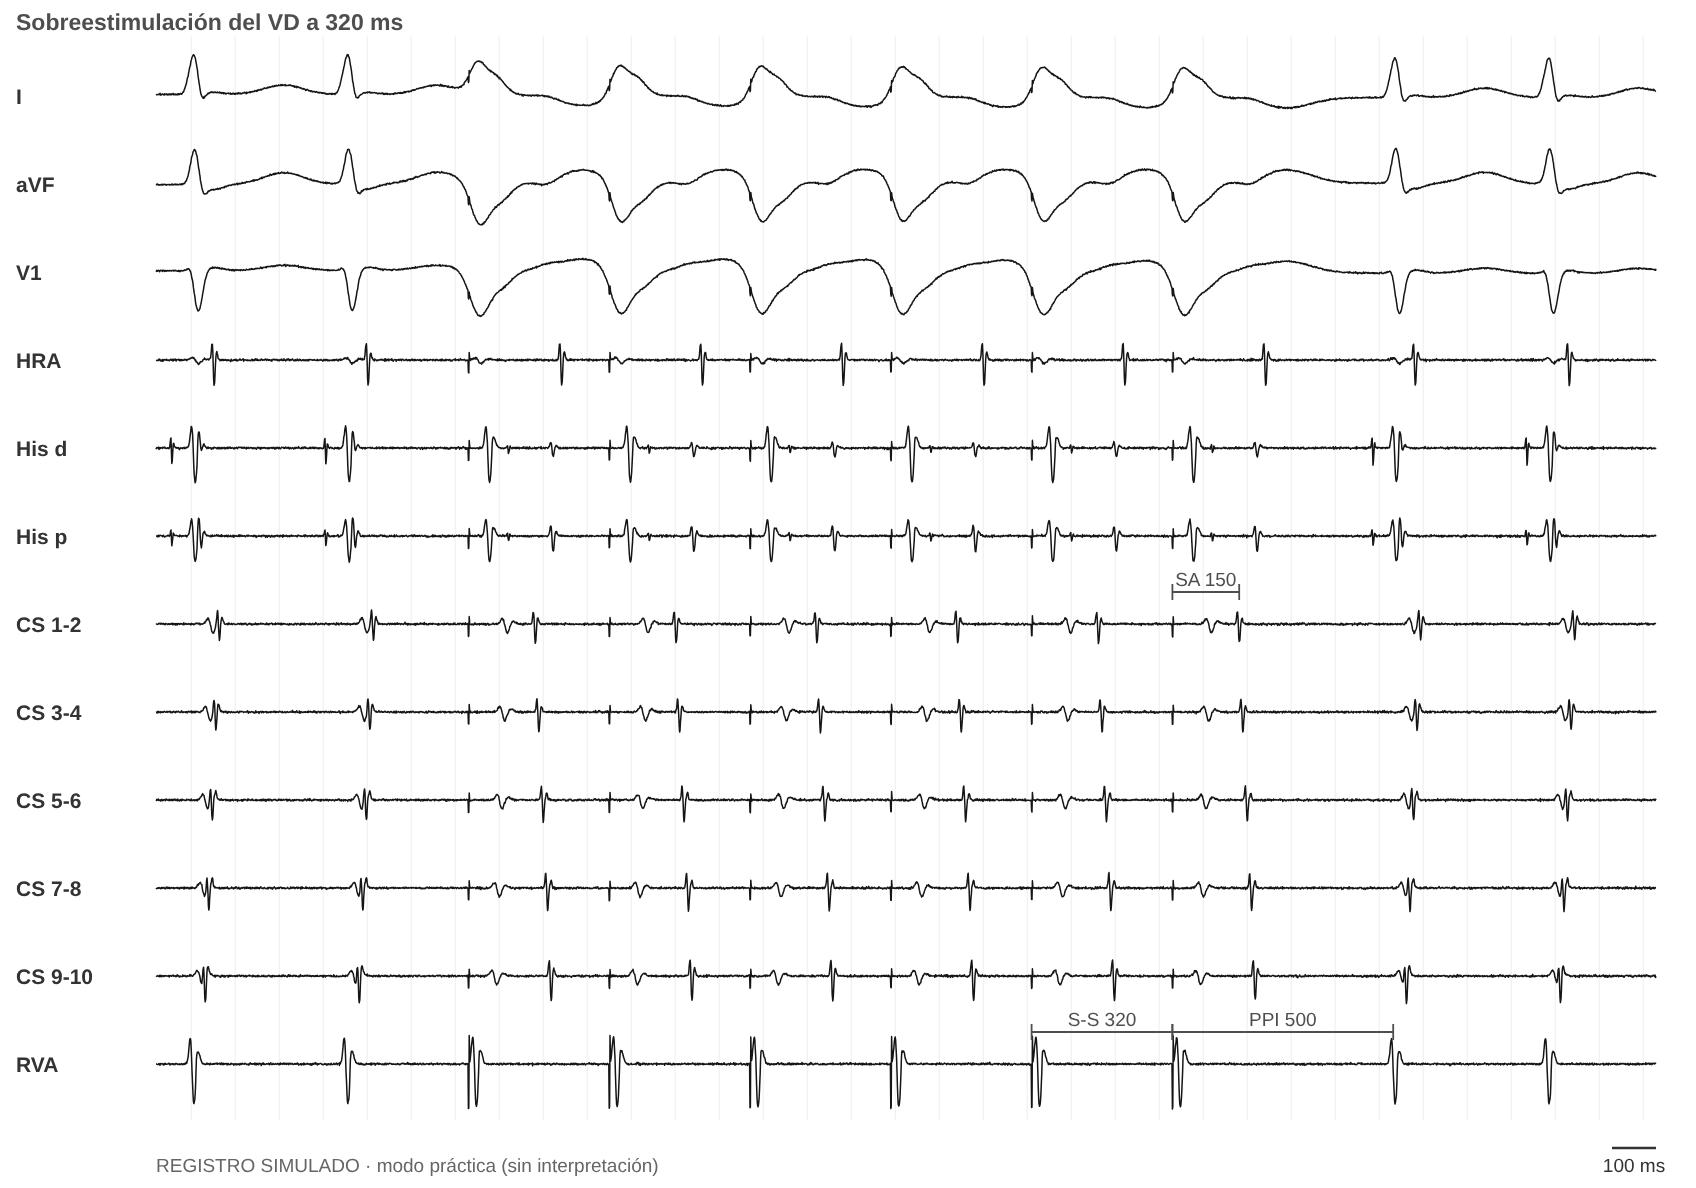
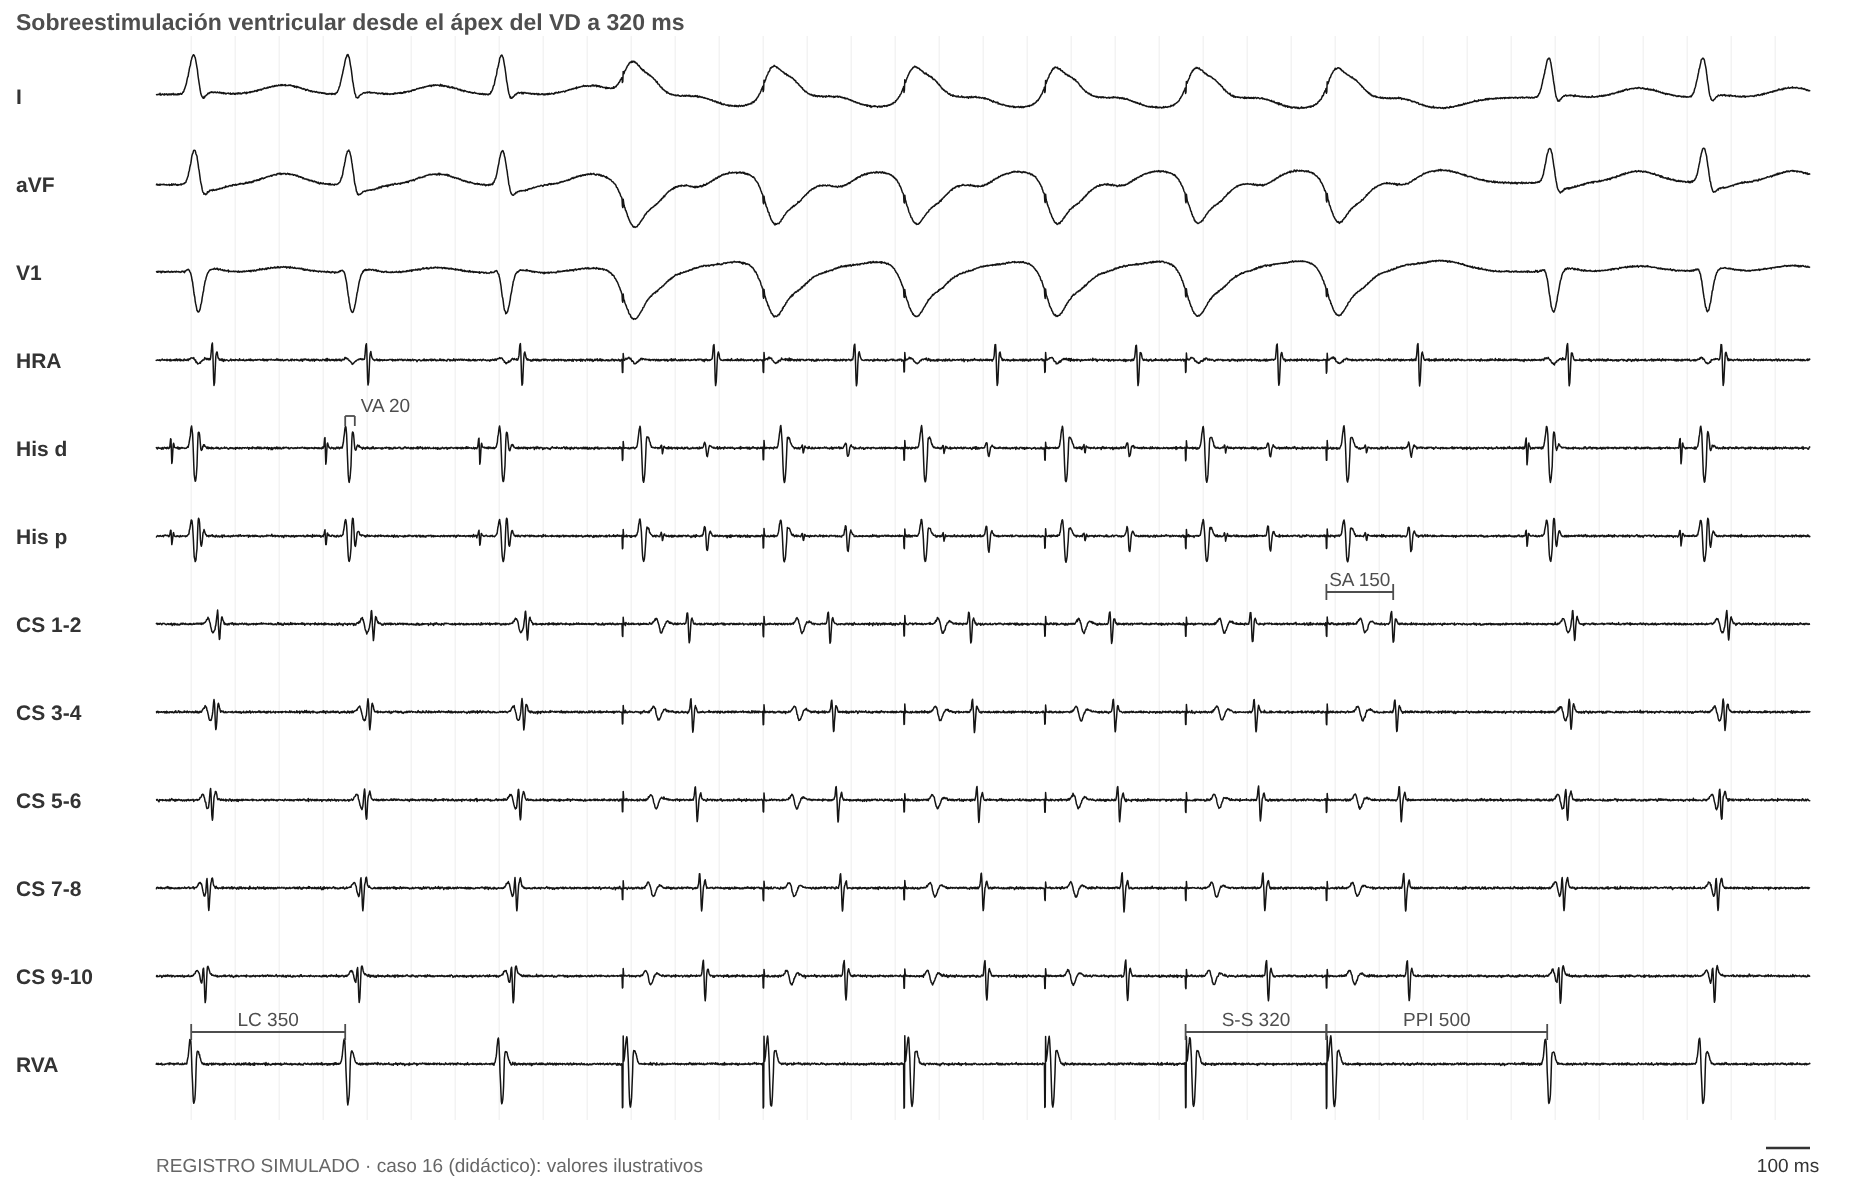
Caso 16 en el formato nuevo: todas las maniobras simuladas, valores durante el análisis y devolución paso a paso
Claude-Session: https://claude.ai/code/session_01Pw5rjt62KK5LeJZoEyFiaM

diff --git a/index.html b/index.html
@@ -313,7 +313,7 @@ dialog::backdrop{background:rgba(0,0,0,.45)}
 
 <div id="visor" hidden role="dialog" aria-label="Imagen ampliada"><div class="vbar"><button type="button" class="vm" aria-label="Achicar">−</button><button type="button" class="vp" aria-label="Agrandar">+</button><button type="button" class="vf">Ajustar</button><button type="button" class="vx">✕ Cerrar</button></div><div class="vbox"><img alt=""></div></div>
 <script>
-const APPV = 177;   // igual al número de CACHE_VERSION de sw.js
+const APPV = 178;   // igual al número de CACHE_VERSION de sw.js
 // ===============================================================================================================
 // Referencias. "propia" = artículo del material base; las demás se citan a través de esas revisiones.
 // ===============================================================================================================
@@ -1486,17 +1486,19 @@ const PCASOS = [
       eha: { v: 'EA desde el ostium del SC con el His refractario: el His siguiente sale a su tiempo (H-H 311).', r: 'No modifica el His: esperable en la TRAV.', u: 'util', img: 'figs/sim/prac/p15_eha.png' } },
     dx: ['trav_l'], ex: 'La activación auricular excéntrica (SC distal) plantea una vía izquierda o una TA izquierda; la respuesta A-V y el VA linking excluyen la TA, y el PPI−LC de 60 ms pone al ventrículo dentro del circuito: TRAV. La conducción VA es excéntrica y decremental: una vía lateral izquierda decremental, poco frecuente. Desde el ápex, la EV con His refractario y la para-Hisiana no la detectan porque la vía está lejos. El mapa de activación durante la taquicardia la ubicó en el anillo mitral lateral (hora 4), donde se ablacionó.', refs: ['michaud01', 'veen11'] },
   { id: 'c16', t: 'TSV concéntrica en un paciente con conducción VA excéntrica', p: 'Varón de 12 años con TSV recurrentes. ECG basal sin preexcitación.',
-    ecg: 'figs/sim/casos/c16_ecg.png', ind: 'figs/sim/casos/c16_ind.png',
-    h: ['TSV de QRS angosto, LC 350 ms, relación 1:1', 'VA septal 20 ms', 'Activación auricular concéntrica (SC 9-10 primero, SC 1-2 último)'],
-    m: { vop: { r: 'Durante el tren la A más precoz pasa al SC distal (SA 150 ms en el SC 1-2). Al cortar, respuesta A-V, y la TSV vuelve con su secuencia concéntrica.', u: 'clave', img: 'figs/sim/prac/p16_vop.png' },
-      ehr: { r: 'Una EV con His refractario adelanta 57 ms la A del SC distal, con una secuencia distinta de la de la TSV; el His siguiente y la LC no cambian.', u: 'clave', img: 'figs/sim/prac/p16_ehr.png' },
-      pre: { r: 'Salto AH de 60 ms con eco nodal. Estimulando el VD en sinusal, conducción VA excéntrica (SC distal primero) y no decremental.', u: 'clave' },
-      medidas: { r: 'PPI−LC 150 ms; SA−VA 130 ms (el SA se midió sobre una A que llegó por otra vía).', u: 'trampa' },
-      eha: { r: 'Un EA con His refractario desde el ostium del SC retrasa el His siguiente 15 ms.', u: 'util' },
-      aop: { r: 'VA linking: el VA del primer latido de retorno es igual al de la TSV.', u: 'util' },
-      parahis: { r: 'En sinusal, respuesta extranodal: al perder la captura del His el SA no cambia.', u: 'trampa' },
-      ado: { r: 'La TSV termina con una A (bloqueo AV).' } },
-    dx: ['trnav_t', 'bys'], ex: 'Durante la TSV el VA septal es de 20 ms y la activación es concéntrica: una TSV así no puede usar una vía lateral izquierda (el impulso tardaría unos 100–130 ms en pasar por el ventrículo y la vía), y el VA ≤ 70 ms excluye la TRAV. La vía existe (conducción VA excéntrica al estimular el ventrículo), pero no participa: la EV con His refractario adelanta una A con otra secuencia sin resetear la taquicardia, y al cortar la sobreestimulación la respuesta es A-V con vuelta a la secuencia concéntrica. TRNAV típica con una vía izquierda espectadora: se ablaciona la vía lenta y también la vía.', refs: ['knight00', 'veen12'] },
+    ecg: 'figs/sim/casos/c16_ecg.png', ind: 'figs/sim/casos/c16_ind.png', indt: 'Registro de la taquicardia',
+    h: ['TSV de QRS angosto, LC 350 ms, relación AV 1:1'],
+    hk: ['VA septal 20 ms con activación auricular concéntrica (SC 9-10 primero, SC 1-2 último): VA ≤ 70 excluye la TRAV, y en particular una TRAV por una vía izquierda (el impulso tardaría 100–130 ms en pasar por el ventrículo y la vía).'],
+    m: { pre: { v: 'A: extraestímulo auricular S1-S2 600-300: AH 90 → 280 con un eco. B: estimulación del VD en sinusal a 500 y 400 ms.', r: 'Salto del AH con eco: doble fisiología nodal. Estimulando el ventrículo, la conducción VA es excéntrica (SC 1-2 primero) y no decremental (SA 150 en los dos): hay una vía lateral izquierda, pero en la TSV la activación es concéntrica.', u: 'clave', img: 'figs/sim/prac/p16_pre.png' },
+      vop: { v: 'Estimulando el ápex del VD a 320 ms, durante el tren la A más precoz pasa al SC distal (SA 150 en el SC 1-2). Al cortar, el primer electrograma que sigue a la última A es un V (secuencia A-V) y la taquicardia vuelve con su secuencia concéntrica.', r: 'Respuesta A-V: excluye la TA. Durante la estimulación la A sube por la vía izquierda, pero en la taquicardia no: la vía no participa.', u: 'clave', img: 'figs/sim/prac/p16_vop.png' },
+      ehr: { v: 'EV con el His refractario: la A del SC distal se adelanta (A-A 293), con una secuencia distinta de la de la TSV; el His siguiente y la LC no cambian (H-H 350).', r: 'La EV llega a la aurícula por la vía (demuestra la vía), pero no resetea la taquicardia: la vía es espectadora. TRNAV con una vía izquierda espectadora.', u: 'clave', img: 'figs/sim/prac/p16_ehr.png' },
+      medidas: { v: 'PPI 500 ms con LC 350 (PPI−LC 150). SA 150 ms (en el SC 1-2) con VA 20 (SA−VA 130).', r: 'PPI−LC > 115: el ventrículo no está en el circuito (TRNAV). El SA se midió sobre una A que subió por la vía, no por el circuito: el SA−VA no se interpreta.', u: 'util', img: 'figs/sim/prac/p16_medidas.png' },
+      diff: { v: 'Encarrilando a 320 ms: SA 150 desde el ápex y SA 140 desde la base del VD (A más precoz en el SC 1-2). ΔVA (base − ápex) −10 ms.', r: 'Engañosa: el ΔVA ≤ 20 sugiere TRAV, pero durante la estimulación la A sube por la vía espectadora, no por el circuito; no sirve para el diagnóstico de la taquicardia.', u: 'trampa', img: 'figs/sim/prac/p16_diff.png' },
+      parahis: { v: 'En sinusal, con captura del His: SA 85, activación concéntrica. Solo V: SA 150 con la A más precoz en el SC 1-2 (excéntrica).', r: 'Cambio de secuencia al perder el His: la A llega por una vía izquierda. Demuestra la vía, pero no que participe en la taquicardia.', u: 'util', img: 'figs/sim/prac/p16_parahis.png' },
+      aop: { v: 'Estimulando la AD alta a 320 ms los V se aceleran a 320 (V-V 320; en la TSV, 350). Al cortar, el VA del primer latido es 20 ms, igual al de la TSV.', r: 'VA linking: excluye la TA.', u: 'util', img: 'figs/sim/prac/p16_aop.png' },
+      eha: { v: 'EA desde el ostium del SC con el His refractario: el His siguiente se retrasa 15 ms (H-H 365).', r: 'El EA entra en el circuito por la vía lenta aunque el His esté refractario: TRNAV.', u: 'util', img: 'figs/sim/prac/p16_eha.png' },
+      ado: { v: 'La taquicardia termina: el último latido es una A que no conduce al V.', r: 'Termina con bloqueo anterógrado en el nodo (vía lenta): excluye la TA.', u: 'util', img: 'figs/sim/prac/p16_ado.png' } },
+    dx: ['trnav_t', 'bys'], ex: 'Durante la TSV el VA septal es de 20 ms y la activación es concéntrica: una TSV así no puede usar una vía lateral izquierda, y el VA ≤ 70 ms excluye la TRAV. La vía existe (conducción VA excéntrica al estimular el ventrículo y en la para-Hisiana sin His), pero no participa: la EV con His refractario adelanta una A con otra secuencia sin resetear la taquicardia, y al cortar la sobreestimulación la respuesta es A-V con vuelta a la secuencia concéntrica. El encarrilamiento diferencial engaña porque la A sube por la vía durante la estimulación. TRNAV típica con una vía izquierda espectadora: se ablaciona la vía lenta y también la vía.', refs: ['knight00', 'veen12'] },
   { id: 'c17', t: 'Dos taquicardias en una niña de 9 años', p: 'Niña de 9 años con TSV recurrentes. Registros reales del polígrafo.',
     basal: 'figs/sim/casos/c17_vbasal.jpg', basalReal: true, ind: 'figs/sim/casos/c17_ind.jpg', indReal: true, indt: 'Inducción de la TSV 2 con estimulación desde el SC', extra: [['figs/sim/casos/c17_trav.jpg', 'TSV 1 (LC 390)', true]],
     h: ['Se inducen dos TSV de QRS angosto distintas', 'TSV 1: LC 390 ms, activación auricular excéntrica, más precoz en el SC 3-4 (pared posterolateral izquierda)', 'TSV 2: LC ~230 ms, inducida con estimulación desde el SC; conduce con aberrancia en algunos tramos'],

diff --git a/sw.js b/sw.js
@@ -1,6 +1,6 @@
 // Permite instalar la app y abrirla sin conexión. Primero la red (siempre lo último publicado); si no hay, la copia.
 // Si cambiás un archivo, subí CACHE_VERSION.
-const CACHE_VERSION = 'mef-v177';
+const CACHE_VERSION = 'mef-v178';
 const ARCHIVOS = ['./', './index.html', './manifest.json', './iconos/icon-192.png', './iconos/icon-512.png'];
 self.addEventListener('install', e => e.waitUntil(caches.open(CACHE_VERSION).then(c => c.addAll(ARCHIVOS)).then(() => self.skipWaiting())));
 self.addEventListener('activate', e => e.waitUntil(caches.keys().then(ks => Promise.all(ks.filter(k => k !== CACHE_VERSION).map(k => caches.delete(k)))).then(() => self.clients.claim())));

diff --git a/herramientas/simulador/cases6.py b/herramientas/simulador/cases6.py
@@ -1505,6 +1505,102 @@ S['p15_eha'] = dict(win=(-100, vs[-1] + 250), pxms=0.27, title='EA con His refra
     cal=[(hs[2], hs[3], 'His d', f'H-H {LC15b}'), (hs[3], hs[4], 'His d', f'H-H {LC15b}')],
     marks=[(apb, 'V1', 'EA')])
 
+# =====================================================================================================
+# Caso 16 (TRNAV típica con una vía lateral izquierda espectadora; LC 350, VA 20 concéntrico, HV 45). Valores ilustrativos.
+SRC16 = 'caso 16 (didáctico): valores ilustrativos'
+LC16, VA16 = 350, 20
+CH16 = ['HRA', 'His p', 'His d', 'CS 9-10', 'CS 7-8', 'CS 5-6', 'CS 3-4', 'CS 1-2', 'RVA']
+
+
+def vop16(title, med, sa=150, typ='pa'):
+    svt = [0, LC16, 2 * LC16]
+    sp = [svt[-1] + 280 + 320 * k for k in range(6)]
+    ret = sp[-1] + 500 + (sa - 150)
+    after = [ret, ret + LC16]
+    cal = [(svt[0], svt[1], 'RVA', f'LC {LC16}'), (svt[1], svt[1] + VA16 + 2, 'His d', f'VA {VA16}'), (sp[-2], sp[-1], 'RVA', 'S-S 320'),
+           (sp[-1], sp[-1] + sa + 2, 'CS 1-2', f'SA {sa}'), (sp[-1], ret + 2, 'RVA', f'PPI {ret - sp[-1]}')]
+    marks = []
+    if med:
+        marks = [(sp[-1] + 230, 'I', f'SA − VA = {sa} − {VA16} = {sa - VA16} ms'), (sp[-1] + 230, 'aVF', f'PPI − LC = {ret - sp[-1]} − {LC16} = {ret - sp[-1] - LC16} ms')]
+    return dict(win=(-80, after[-1] + 250), pxms=0.22, title=title, channels=CH16, src=SRC16, spikes=sp, pace_ch='RVA',
+        beats=[(v, 'n') for v in svt + after] + [(s, typ) for s in sp],
+        atr=[(v + VA16, 'conc_his', -1) for v in svt + after] + [(s + sa, 'left', -1) for s in sp],
+        h_ante=[v - HV for v in svt + after], h_retro=[s + 90 for s in sp], cal=cal, marks=marks)
+
+
+S['p16_vop'] = vop16('Sobreestimulación ventricular desde el ápex del VD a 320 ms', False)
+S['p16_medidas'] = vop16('Medidas sobre la sobreestimulación ventricular (ápex del VD a 320 ms): PPI y SA', True)
+S['p16_diff_a'] = vop16('A. Encarrilamiento desde el ápex del VD (320 ms)', False)
+S['p16_diff_b'] = vop16('B. Encarrilamiento desde la base del VD (320 ms)', False, sa=140, typ='pb')
+
+# EV con His refractario: adelanta la A del SC distal 57 ms (secuencia excéntrica/fusión); el His siguiente y la LC no cambian.
+vs = [i * LC16 for i in range(6)]
+T = vs[3]
+pvc = T - 95
+S['p16_ehr'] = dict(win=(-80, vs[-1] + 250), pxms=0.30, title='EV con His refractario durante la taquicardia', channels=CH16, src=SRC16,
+    beats=[(v, 'n') for k, v in enumerate(vs) if k != 3] + [(pvc, 'lv')], spikes=[pvc], pace_ch='RVA',
+    atr=[(v + VA16, 'conc_his', -1) for k, v in enumerate(vs) if k != 3] + [(T + 5, 'fus_l', -1)], h_ante=[v - HV for v in vs],
+    cal=[(vs[2] - HV, vs[3] - HV, 'His d', f'H-H {LC16}'), (vs[3] - HV, vs[4] - HV, 'His d', f'H-H {LC16}'),
+         (vs[2] + VA16 + 42, T + 5, 'CS 1-2', f'A-A {T + 5 - vs[2] - VA16 - 42}')],
+    marks=[(pvc, 'V1', 'EV'), (vs[3] - HV, 'His p', 'H')])
+
+# Estudio basal. A: extraestímulo auricular con salto del AH (S2 300 → AH 280) y eco concéntrico.
+# B: estimulación del VD a 500 y 400: SA 150 en los dos (no decremental), excéntrica (SC 1-2 primero).
+sp = [0, 600, 900]
+hs = [s + 28 + a for s, a in zip(sp, [90, 90, 280])]
+vs = [h + HV for h in hs]
+S['p16_pre_a'] = dict(win=(-80, 1500), pxms=0.40, title='A. Extraestímulo auricular S1-S2 600-300', channels=CH16, src=SRC16,
+    beats=[(v, 'n') for v in vs], aspikes=sp, apace_ch='HRA', atr=[(s + 5, 'sinus', 1) for s in sp] + [(vs[2] + VA16, 'conc_his', -1)], h_ante=hs,
+    cal=[(sp[1], sp[2], 'HRA', 'S2 300'), (sp[1] + 28, hs[1], 'His d', 'AH 90'), (sp[2] + 28, hs[2], 'His d', 'AH 280')],
+    marks=[(vs[2] + VA16, 'CS 5-6', 'eco')])
+sp = [0, 500, 1000, 1400, 1800]
+S['p16_pre_b'] = dict(win=(-80, 2150), pxms=0.30, title='B. Estimulación del VD en sinusal: 500 y 400 ms', channels=CH16, src=SRC16,
+    spikes=sp, beats=[(s, 'pa') for s in sp], atr=[(s + 150, 'left', -1) for s in sp], h_retro=[s + 90 for s in sp],
+    cal=[(sp[0], sp[1], 'RVA', 'S-S 500'), (sp[1], sp[1] + 152, 'CS 1-2', 'SA 150'), (sp[2], sp[3], 'RVA', 'S-S 400'), (sp[3], sp[3] + 152, 'CS 1-2', 'SA 150')])
+
+# Para-Hisiana en sinusal: con His, SA 85 concéntrica; sin His, la A llega primero por la vía (SC 1-2, SA 150): cambia la secuencia.
+sp = [0, 650, 1300, 1950]
+cap = [True, False, True, False]
+S['p16_parahis'] = dict(win=(-80, 2300), pxms=0.32, title='Estimulación para-Hisiana en ritmo sinusal', channels=CH16, src=SRC16,
+    spikes=sp, pace_ch='His p', beats=[(s + HV if c else s, 'n' if c else 'pa') for s, c in zip(sp, cap)],
+    atr=[(s + 85, 'conc_his', -1) if c else (s + 150, 'left', -1) for s, c in zip(sp, cap)],
+    cal=[(sp[0], sp[0] + 87, 'His d', 'SA 85'), (sp[1], sp[1] + 152, 'CS 1-2', 'SA 150'), (sp[2] + HV, sp[2] + HV + 95, 'RVA', 'QRS 95'), (sp[3], sp[3] + 150, 'RVA', 'QRS 150')],
+    marks=[(sp[0] + 30, 'V1', 'His + V'), (sp[1] + 40, 'V1', 'solo V')])
+
+# Sobreestimulación auricular desde la AD alta a 320: el tren arranca después del último QRS; al cortar, VA 20 como en la TSV.
+AHs16 = LC16 - HV - VA16 + 10
+vs = [0, LC16, 2 * LC16]
+A = [v + VA16 for v in vs]
+sp = [vs[-1] + 10 + 320 * k for k in range(6)]
+pv = [s + 28 + AHs16 + HV for s in sp]
+vs2 = [pv[-1] + LC16, pv[-1] + 2 * LC16]
+S['p16_aop'] = dict(win=(-80, vs2[-1] + 220), pxms=0.21, title='Sobreestimulación auricular desde la AD alta a 320 ms', channels=CH16, src=SRC16,
+    beats=[(v, 'n') for v in vs + pv + vs2], aspikes=sp, apace_ch='HRA',
+    atr=[(a, 'conc_his', -1) for a in A[:-1]] + [(s + 5, 'sinus', 1) for s in sp] + [(v + VA16, 'conc_his', -1) for v in [pv[-1]] + vs2],
+    h_ante=[v - HV for v in vs + pv + vs2],
+    cal=[(vs[0], vs[1], 'RVA', f'V-V {LC16}'), (vs[1], vs[1] + VA16 + 2, 'His d', f'VA {VA16}'), (sp[-2], sp[-1], 'HRA', 'S-S 320'),
+         (pv[-2], pv[-1], 'RVA', 'V-V 320'), (pv[-1], pv[-1] + VA16 + 2, 'His d', f'VA {VA16}')])
+
+# Adenosina: termina con una A (bloqueo anterógrado en la vía lenta).
+vs = [i * LC16 for i in range(4)]
+A = [v + VA16 for v in vs]
+S['p16_ado'] = dict(win=(-80, A[-1] + 800), pxms=0.25, title='Adenosina IV durante la taquicardia', channels=CH16, src=SRC16,
+    beats=[(v, 'n') for v in vs], atr=[(a, 'conc_his', -1) for a in A], h_ante=[v - HV for v in vs],
+    cal=[(vs[0], vs[1], 'RVA', f'LC {LC16}'), (vs[3], A[3] + 2, 'His d', f'VA {VA16}')],
+    marks=[(A[3] + 60, 'aVF', 'última: A sin V')])
+
+# EA con His refractario desde el ostium del SC: retrasa el His siguiente 15 ms.
+hs = [i * LC16 - HV for i in range(7)]
+apb = hs[4] + 10
+hs = hs[:5] + [h + 15 for h in hs[5:]]
+vs = [h + HV for h in hs]
+A = [v + VA16 for k2, v in enumerate(vs) if k2 != 4]
+S['p16_eha'] = dict(win=(-100, vs[-1] + 250), pxms=0.22, title='EA con His refractario desde el ostium del SC', channels=CH16, src=SRC16,
+    beats=[(x, 'n') for x in vs], aspikes=[apb], apace_ch='CS 9-10',
+    atr=[(a, 'conc_his', -1) for a in A] + [(apb + 4, 'conc_cs', 1)], h_ante=hs,
+    cal=[(hs[3], hs[4], 'His d', f'H-H {LC16}'), (hs[4], hs[5], 'His d', f'H-H {LC16 + 15}')],
+    marks=[(apb, 'V1', 'EA')])
+
 if __name__ == '__main__':
     for k in (sys.argv[3:] or S):
         render(S[k], f'{OUT}/{k}.svg')

diff --git a/herramientas/simulador/build_all.py b/herramientas/simulador/build_all.py
@@ -63,8 +63,7 @@ for f in sorted(os.listdir(FIGS)):
     else:
         print('sin escenario:', f)
 
-NEUTRO = {'p16_vop': [('bys_b', 'Sobreestimulación del VD a 320 ms')], 'p16_ehr': [('bys_c', 'EV con His refractario')],
-          'p17_vop': [('c17s_vop_a', 'A. TSV 1: sobreestimulación del VD a 360 ms'), ('c17s_vop_b', 'B. TSV 2: sobreestimulación del VD a 210 ms')],
+NEUTRO = {'p17_vop': [('c17s_vop_a', 'A. TSV 1: sobreestimulación del VD a 360 ms'), ('c17s_vop_b', 'B. TSV 2: sobreestimulación del VD a 210 ms')],
           'p17_ehr': [('c17s_ehr', 'TSV 1: EV con His refractario')]}
 for f in sorted(os.listdir(os.path.join(FIGS, 'prac'))):
     if not f.endswith('.png'):
